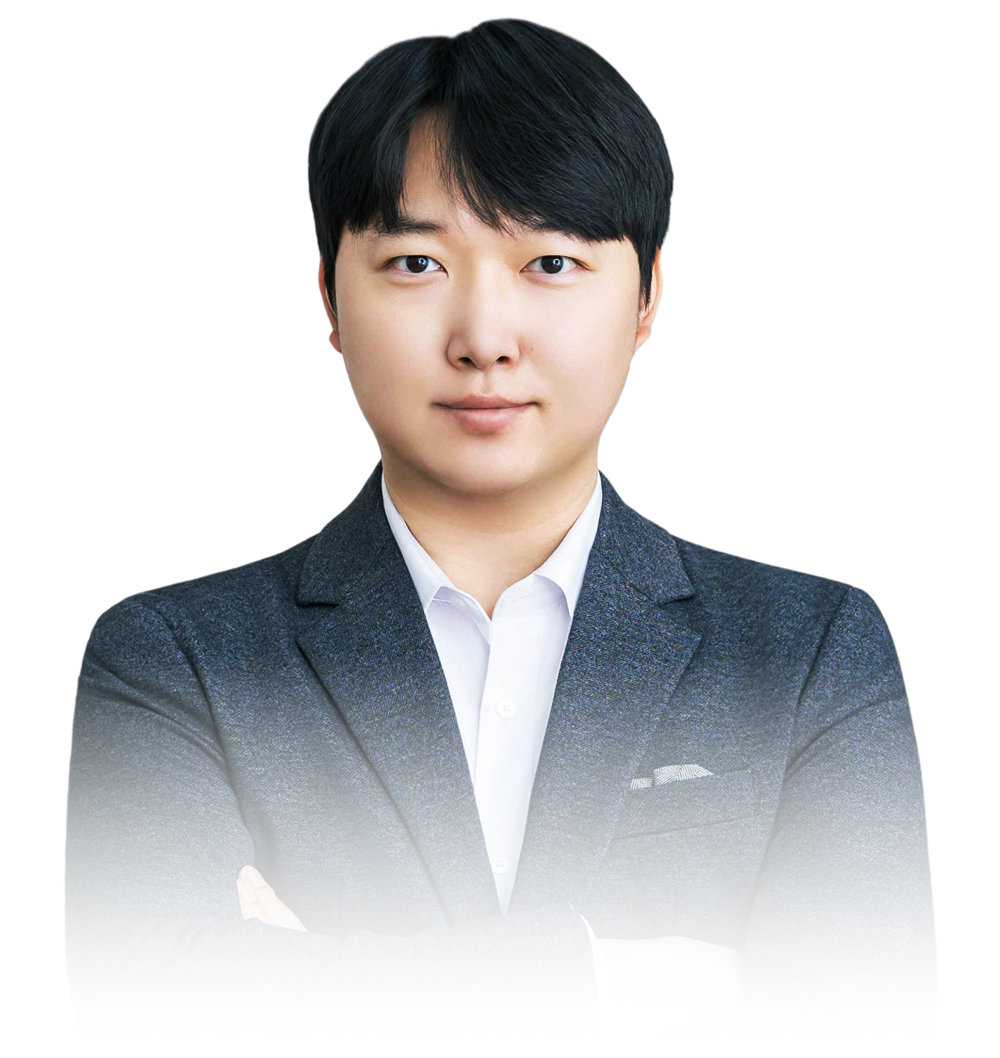
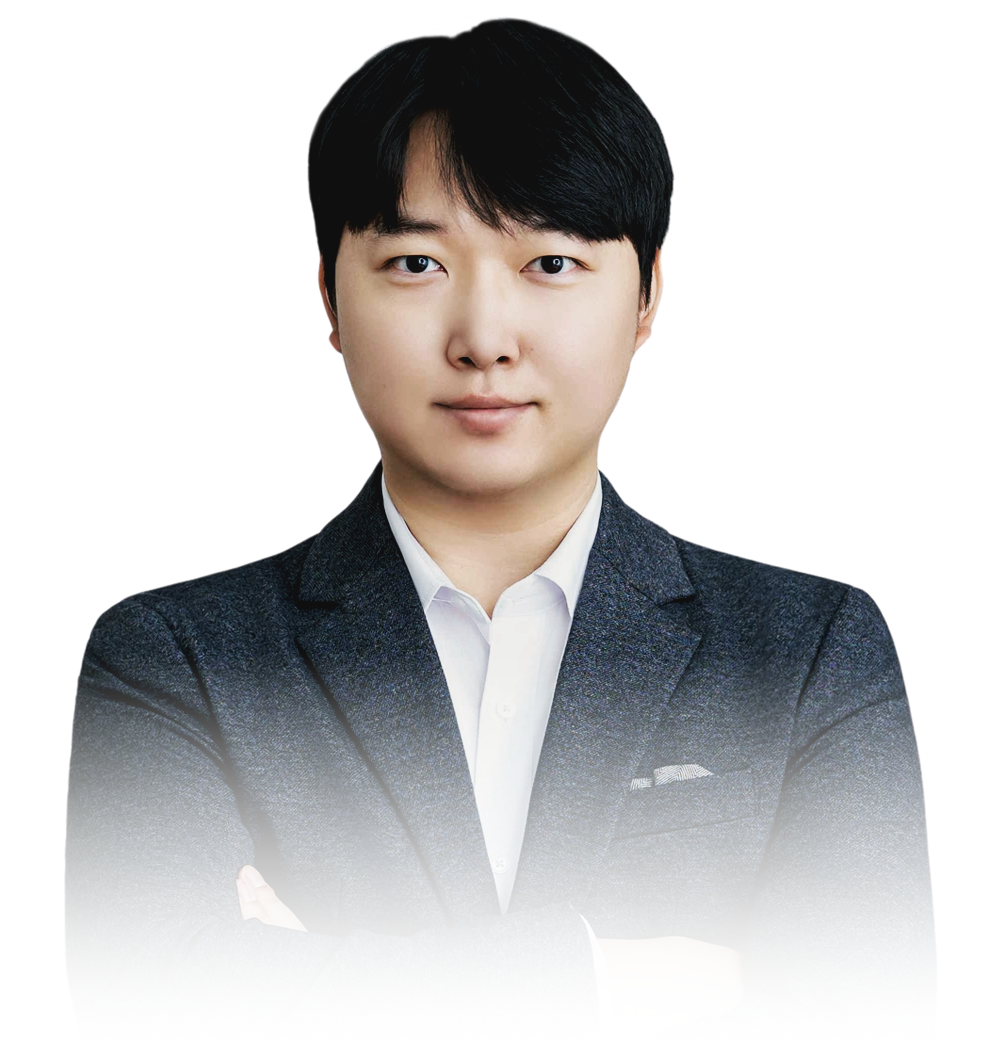
fix: Image Area

diff --git a/src/components/sections/TeamSection.jsx b/src/components/sections/TeamSection.jsx
@@ -270,6 +270,12 @@ const LeaderImageFrame = styled(motion.div)`
         height: 100%;
         object-fit: cover;
         object-position: top center;
+
+        /* PC: 이미지가 잘리지 않도록 설정 변경 */
+        ${media.pc`
+            object-fit: contain;
+            object-position: bottom center;
+        `}
     }
 
     /* Tablet */
@@ -286,7 +292,8 @@ const LeaderImageFrame = styled(motion.div)`
     ${media.pc`
         order: 2;
         height: 56rem;
-        max-width: 40rem;
+        /* 어깨가 잘리지 않도록 최대 너비 확장 (40rem -> 60rem) */
+        max-width: 60rem; 
         margin-left: 0;
         border-radius: 0;
     `}
@@ -296,6 +303,7 @@ const ButtonWrapper = styled.div`
     display: flex;
     align-items: center;
     justify-content: center;
+    margin-top: 2rem;
 
     /* Tablet */
     ${media.tablet`
@@ -304,7 +312,7 @@ const ButtonWrapper = styled.div`
 
     /* PC */
     ${media.pc`
-        justify-content: flex-end;
+        justify-content: flex-start; /* 디자인 시안에 맞춰 좌측 정렬, 필요시 flex-end로 변경 */
     `}
 `;
 
